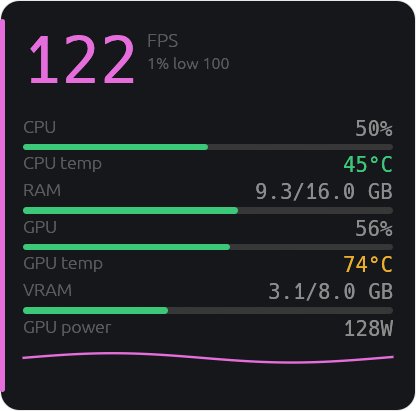
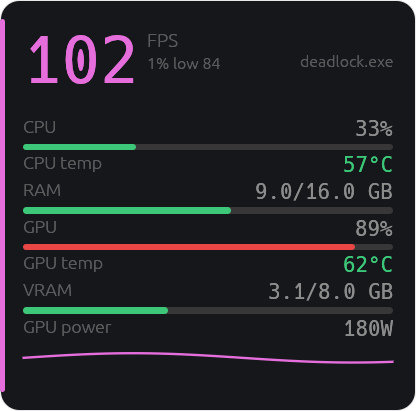
Show the followed target name on the overlay
The snapshot carries the followed process name (set on Start, cleared on
Stop); the hero shows it top-right in a weak tone, so a set-and-forget user
can confirm the overlay is tracking the right game. Demo mode names
deadlock.exe. Re-captured all four README screenshots.

diff --git a/src/main.rs b/src/main.rs
@@ -273,6 +273,7 @@ fn demo_loop(data: &std::sync::Mutex<gui::app::Snapshot>, stop: &AtomicBool) {
             snap.stats = gui::demo::stats(t);
             snap.fps = Some(fps);
             snap.one_percent_low = Some(fps * 0.82);
+            snap.target = "deadlock.exe".to_string();
             snap.fps_history.push(fps as f32);
             if snap.fps_history.len() > FPS_HISTORY {
                 snap.fps_history.remove(0);
@@ -320,6 +321,9 @@ fn fps_loop(
                         log_target(&mut last_log, format!("following {exe} (pid {pid})"));
                         feed = Some(PresentMonFeed::start(pid));
                         current = pid;
+                        if let Ok(mut snap) = data.lock() {
+                            snap.target = exe;
+                        }
                     }
                 }
                 FeedAction::Stop => {
@@ -332,6 +336,7 @@ fn fps_loop(
                         snap.fps = None;
                         snap.one_percent_low = None;
                         snap.fps_history.clear();
+                        snap.target.clear();
                     }
                 }
                 FeedAction::Keep => {}

diff --git a/src/gui/app.rs b/src/gui/app.rs
@@ -34,6 +34,8 @@ pub struct Snapshot {
     pub one_percent_low: Option<f64>,
     /// Recent fps samples (newest last), for the Full-density sparkline.
     pub fps_history: Vec<f32>,
+    /// The followed process name, empty when nothing is followed.
+    pub target: String,
 }
 
 /// Launch the overlay. Blocks until the window is closed. `quit` is set by an
@@ -229,6 +231,13 @@ fn hero(ui: &mut egui::Ui, snap: &Snapshot, accent: egui::Color32, scale: f32) {
                         .size(10.0 * scale)
                         .weak(),
                 );
+            }
+        });
+        // The followed process, right-aligned — so a set-and-forget user can
+        // confirm the overlay is tracking the right game.
+        ui.with_layout(egui::Layout::right_to_left(egui::Align::Center), |ui| {
+            if !snap.target.is_empty() {
+                ui.label(egui::RichText::new(&snap.target).size(10.0 * scale).weak());
             }
         });
     });

diff --git a/gui.md b/gui.md
@@ -70,6 +70,7 @@ An OSD that looks like a piece of lab equipment, not a widget. Rules:
 21. [x] Fix `tools/audit.ps1` CRAP exclude; full audit now PASSes.
 22. [x] Anchor in the monitor work area (clears the taskbar; honours the origin).
 23. [x] `--gui --follow-secs <n>` bounds the overlay (was silently ignored).
+24. [x] Show the followed target name (top-right) so set-and-forget is confirmable.
 
 ## Progress log
 
@@ -200,3 +201,8 @@ An OSD that looks like a piece of lab equipment, not a widget. Rules:
   in GUI mode; `Mode::Gui` now carries the full `FollowArgs` (glob + bound), and
   a timer closes the overlay after the bound. **Verified live**: logs "closing
   after 3s" and exits. Gate green (188 tests, both features).
+- 2026-10-11: Target name (item 24). The snapshot carries the followed process
+  name (set on Start, cleared on Stop); the hero shows it top-right in a weak
+  tone, so a set-and-forget user can confirm the overlay tracks the right game.
+  Demo mode names `deadlock.exe`. Re-captured all four README screenshots. Gate
+  green (188 tests, both features).
